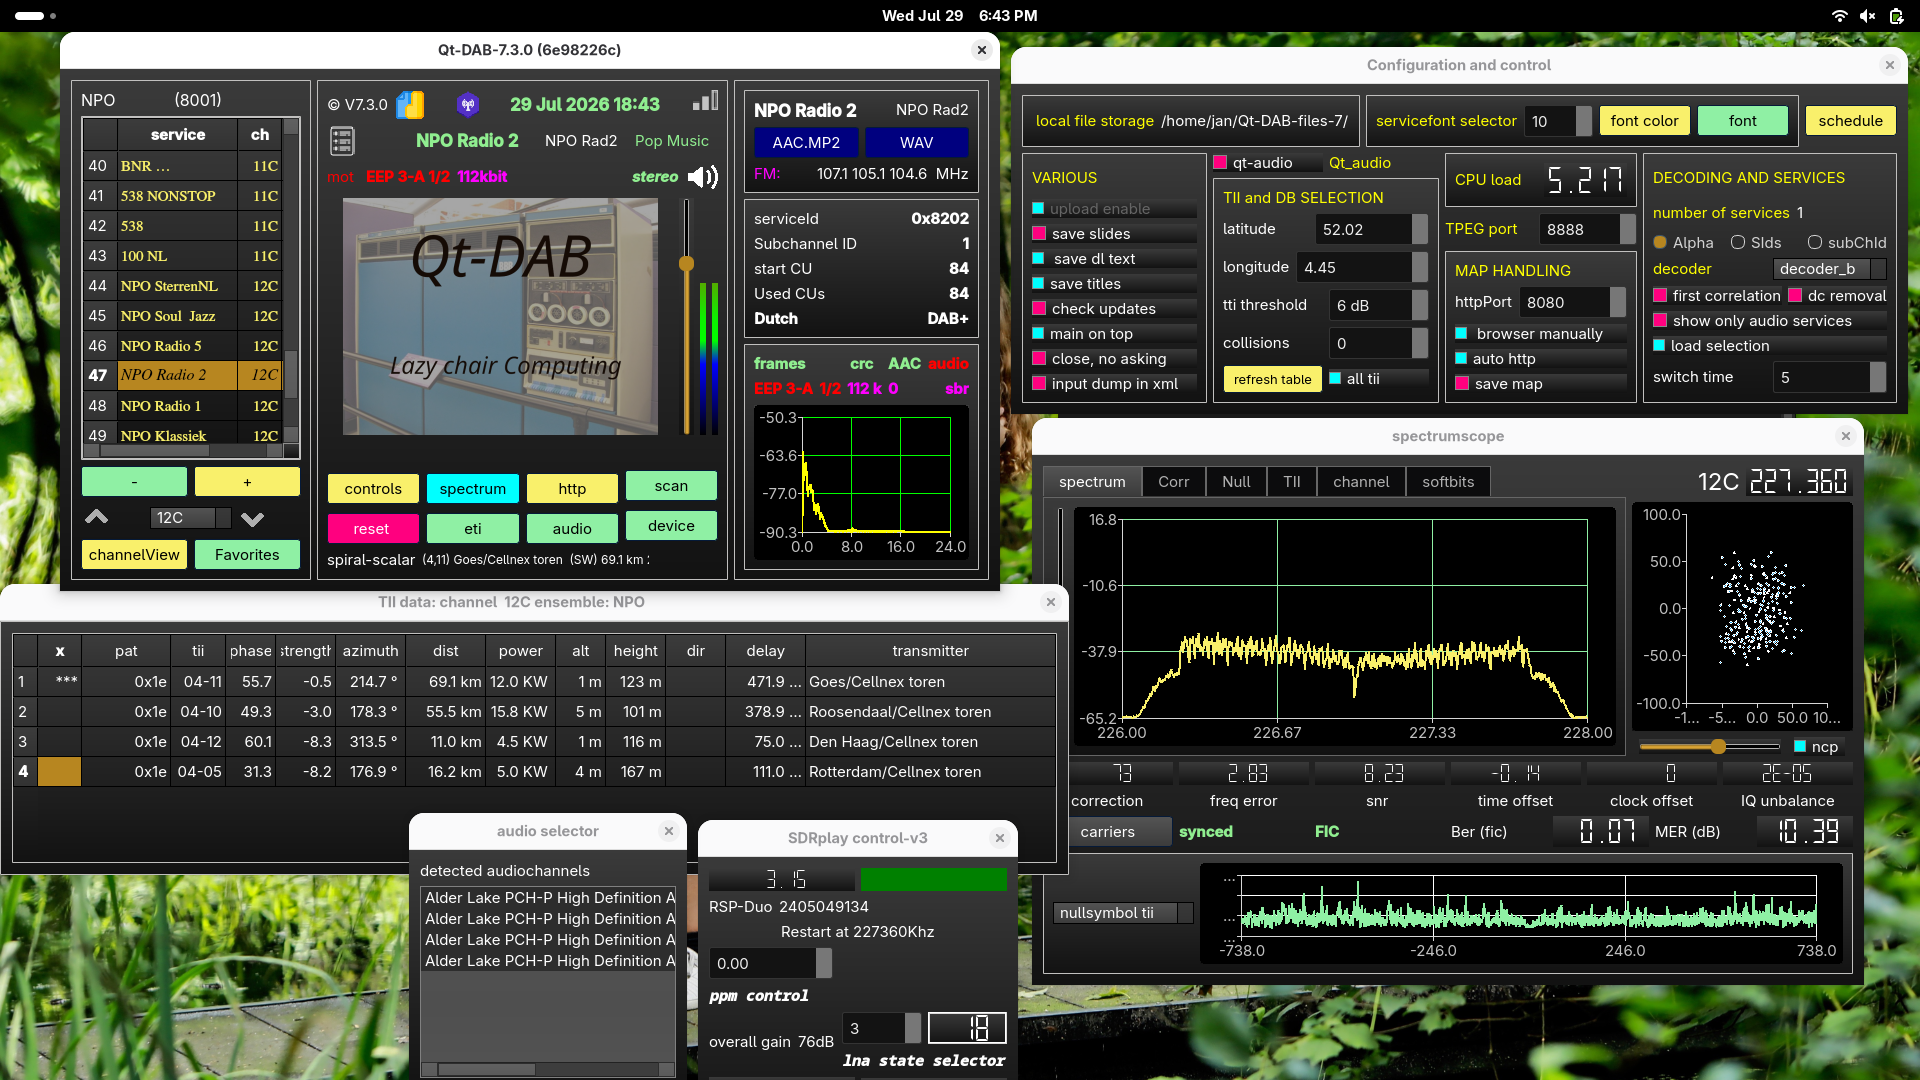
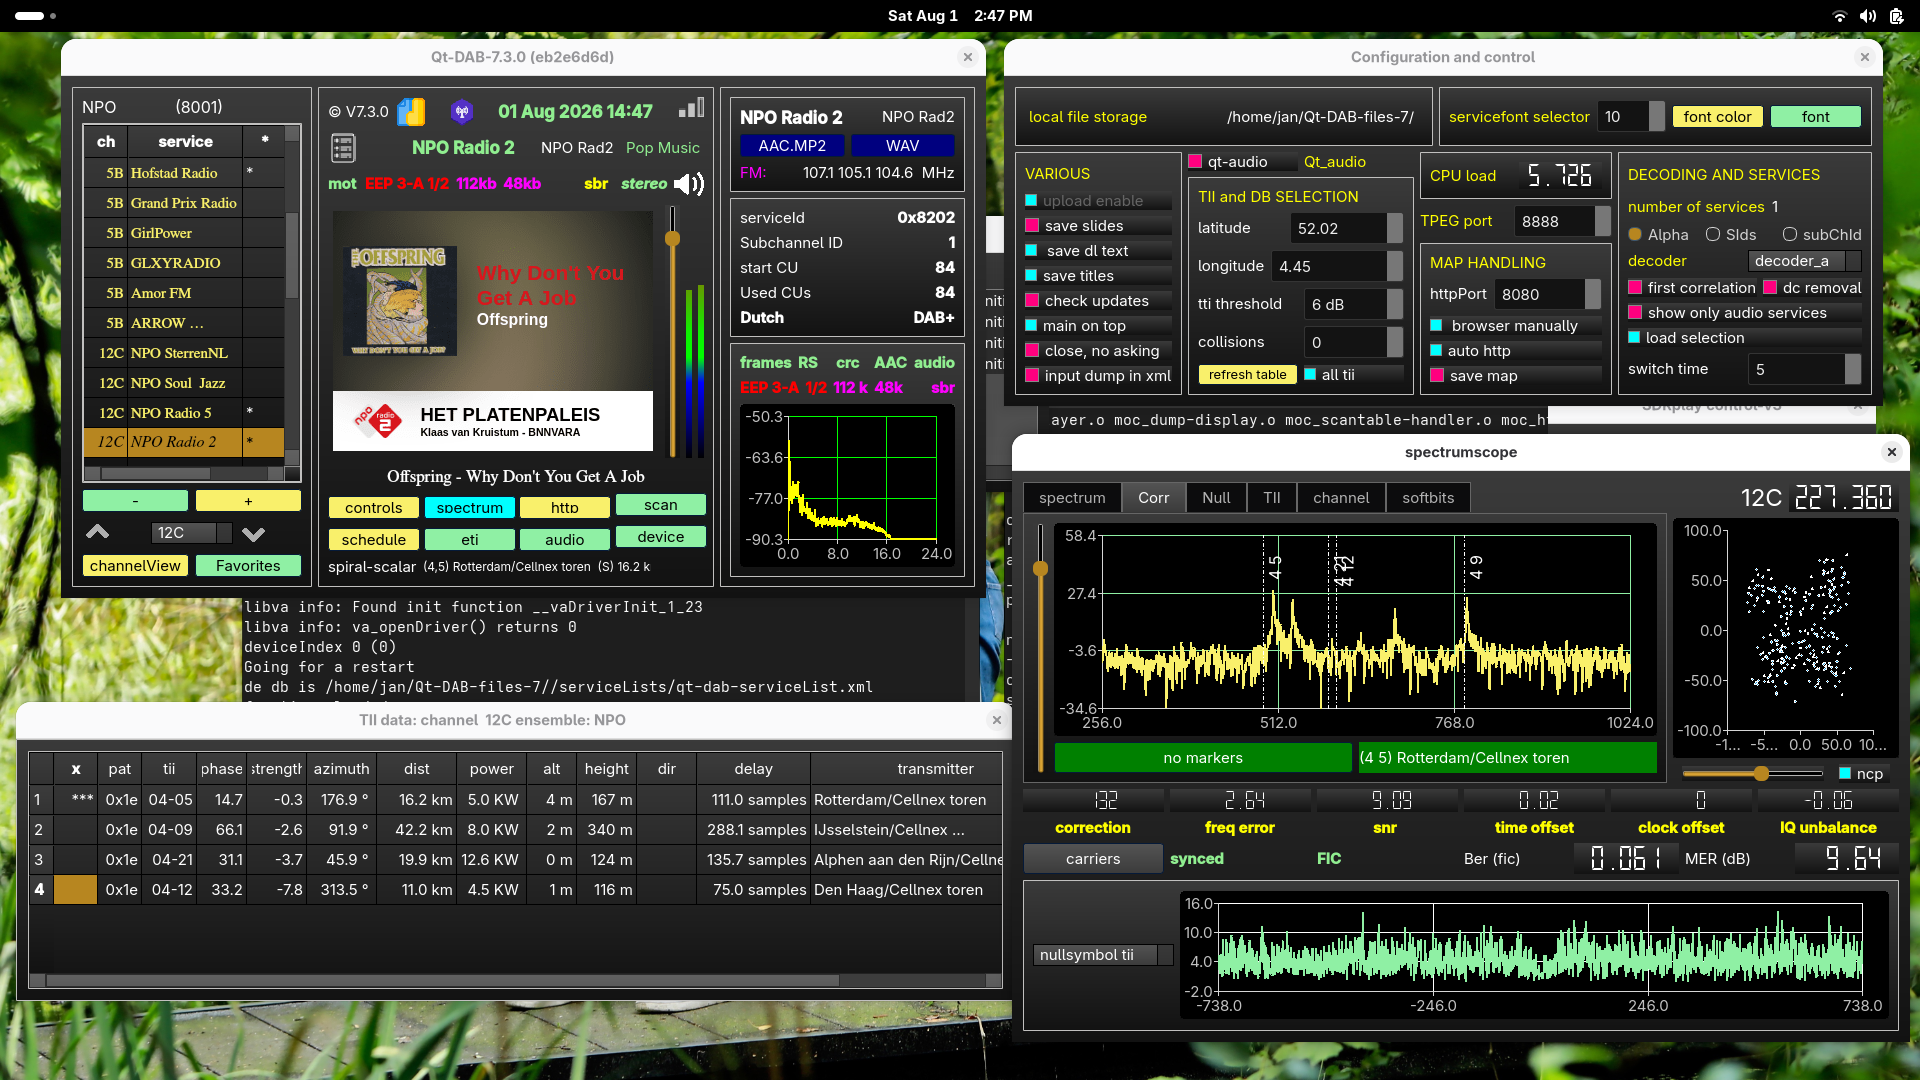
few minor changes

diff --git a/sources/main/radio.cpp b/sources/main/radio.cpp
@@ -858,7 +858,10 @@ void	RadioInterface::handle_FIG11 (const QString &serviceName,
 	   return;		// should not happen
 	}
 
-	ad. channel	= channel. channelName;
+	if (channel. channelName == "")
+	   ad. channel	= "X";
+	else
+	   ad. channel	= channel. channelName;
 	newServices	-> addService (ad);
 
 	channel. nrServices ++;
@@ -1352,11 +1355,13 @@ void	RadioInterface::newAudio	(uint32_t amount, int rate,
 	audioTeller ++;
 	if (audioTeller > 20) {
 	   audioTeller = 0;
-	   if (!techFrame -> isHidden ())
+	   if (!techFrame -> isHidden ()) {
 	      theTechWindow	-> showRate (rate, ps, sbr);
-	   audiorateLabel	-> setText (QString::number (rate));
-	   psLabel	-> setText (ps ? "ps" : " ");
-	   sbrLabel	-> setText (sbr ? "sbr" : " ");
+	      int displayRate =  rate / 1000;
+	      audiorateLabel	-> setText (QString::number (displayRate) + "kb");
+	      psLabel	-> setText (ps ? "ps" : " ");
+	      sbrLabel	-> setText (sbr ? "sbr" : " ");
+	   }
 	}
 //
 //	processing the audio
@@ -2414,7 +2419,7 @@ void	RadioInterface::startAudioservice (audiodata &ad) {
 	   setSoundLabel (true);
 	   programTypeLabel	-> setText (getProgramType (channel. internatTable, ad. programType));
 	   rateLabel		-> setText (QString::number (ad. bitRate) +
-	                                                        "kbit");
+	                                                        "kb");
 	   QString protL	= getProtectionLevel (ad. shortForm,
 	                                                    ad. protLevel);
 	   QString crL		= getCodeRate (ad. shortForm, ad. protLevel);

diff --git a/sources/main/display-widget.cpp b/sources/main/display-widget.cpp
@@ -61,8 +61,21 @@
 //
 	myFrame. hide ();
 
+	correctionLabel	->
+	   setStyleSheet ("font-weight:bold; color: yellow");
+	correctionLabel ->
+	   setStyleSheet ("font-weight:bold; color: yellow");
+	freqErrorLabel ->
+	   setStyleSheet ("font-weight:bold; color: yellow");
+	snrLabel	->
+	   setStyleSheet ("font-weight:bold; color: yellow");
+	timeOffsetLabel -> 
+	   setStyleSheet ("font-weight:bold; color: yellow");
+	clockOffsetLabel ->
+	   setStyleSheet ("font-weight:bold; color: yellow");
+	unbalanceLabel	->
+	   setStyleSheet ("font-weight:bold; color: yellow");
 	dcOffset_display	-> show ();
-	dcOffset_label		-> show ();
 //	the "workers"
 	spectrumScope_p		= new spectrumScope	(plotArea,
 	                                                 512, dabSettings_p,
@@ -459,11 +472,11 @@ void	displayWidget::showDCOffset	(float dcOffset) {
 void	displayWidget::set_dcRemoval	(bool b) {
 	if (b) {
 	   dcOffset_display	-> show ();
-	   dcOffset_label	-> show ();
+	   unbalanceLabel	-> show ();
 	}
 	else {
 	   dcOffset_display	-> hide ();
-	   dcOffset_label	-> hide ();
+	   unbalanceLabel	-> hide ();
 	}
 }
 

diff --git a/sources/main/viewer/view-handler.cpp b/sources/main/viewer/view-handler.cpp
@@ -266,7 +266,7 @@ QString	serviceViewer::extractName	(uint32_t SId) {
 //	In ensembleview mode, services might be added
 void	serviceViewer::addService	(const descriptorType & ad) {
 QString channel	= channelSelector -> currentText ();
-	
+
 	for (auto &ssd: displayList) {
 	   if ((ssd. serviceName == ad. serviceName) &&
 	       (ssd. channelName == ad. channel))
@@ -287,14 +287,12 @@ QString channel	= channelSelector -> currentText ();
 	int index	= -1;
 	switch (theMode) {
 	   case ENSEMBLEVIEW:
-	      sd. channelName	= channel;
 	      index = add_to_displayList (sd);
 	      if (ensembleMode == ALL)
 	         theDataBase. add (sd);
 	      insert (sd, index);	// in the table
 	      break;
 	   case FILEINPUT:
-	      sd. channelName	= "FILE";
 	      sd. isFavorite	= false;
 	      displayList. push_back (sd);
 	      insert (sd, displayList. size () - 1);

diff --git a/sources/support/gui-elements/smallpushbutton.cpp b/sources/support/gui-elements/smallpushbutton.cpp
@@ -30,8 +30,8 @@
 
 QSize	smallPushButton::sizeHint ()const {
 QSize	temp = QPushButton::sizeHint ();
-	return QSize (1 * temp. rwidth () / 4, temp. rheight ());
-//	return QSize (2 * temp. rwidth () / 3, 2 * temp. rheight () / 3);
+//	return QSize (1 * temp. rwidth () / 4, temp. rheight ());
+	return QSize (1 * temp. rwidth () / 4, 3 * temp. rheight () / 4);
 }
 
 void	smallPushButton::mousePressEvent (QMouseEvent *e) {

diff --git a/README.md b/README.md
@@ -194,7 +194,7 @@ The buttons:
  * the buttons labeled **controls**, **spectrum** just control the visibility of the **configuration and control** resp. the **spectrum scope* window;
  * the buttons **scan**, "audio" and "device" control the visibility of windows to control  **scanning**, selection of the audio channel, and controlling the selected device.
  * the button labeled **http** controls the http handler with which the transmitters detected can be made visible on a map;
- * the button labeled **reset** stops and restart processing;
+ * the button labeled **schedule** controls scheduling; if touched a small window shows where a schedule command or a service can be selected for starting at a specified time and date within the next 7 days;
  * the button labeled **eti** controls the **eti-processor**, i.e. a processor with which the input can be transformed into "eti" compliant data files;
 
 The bottom line
